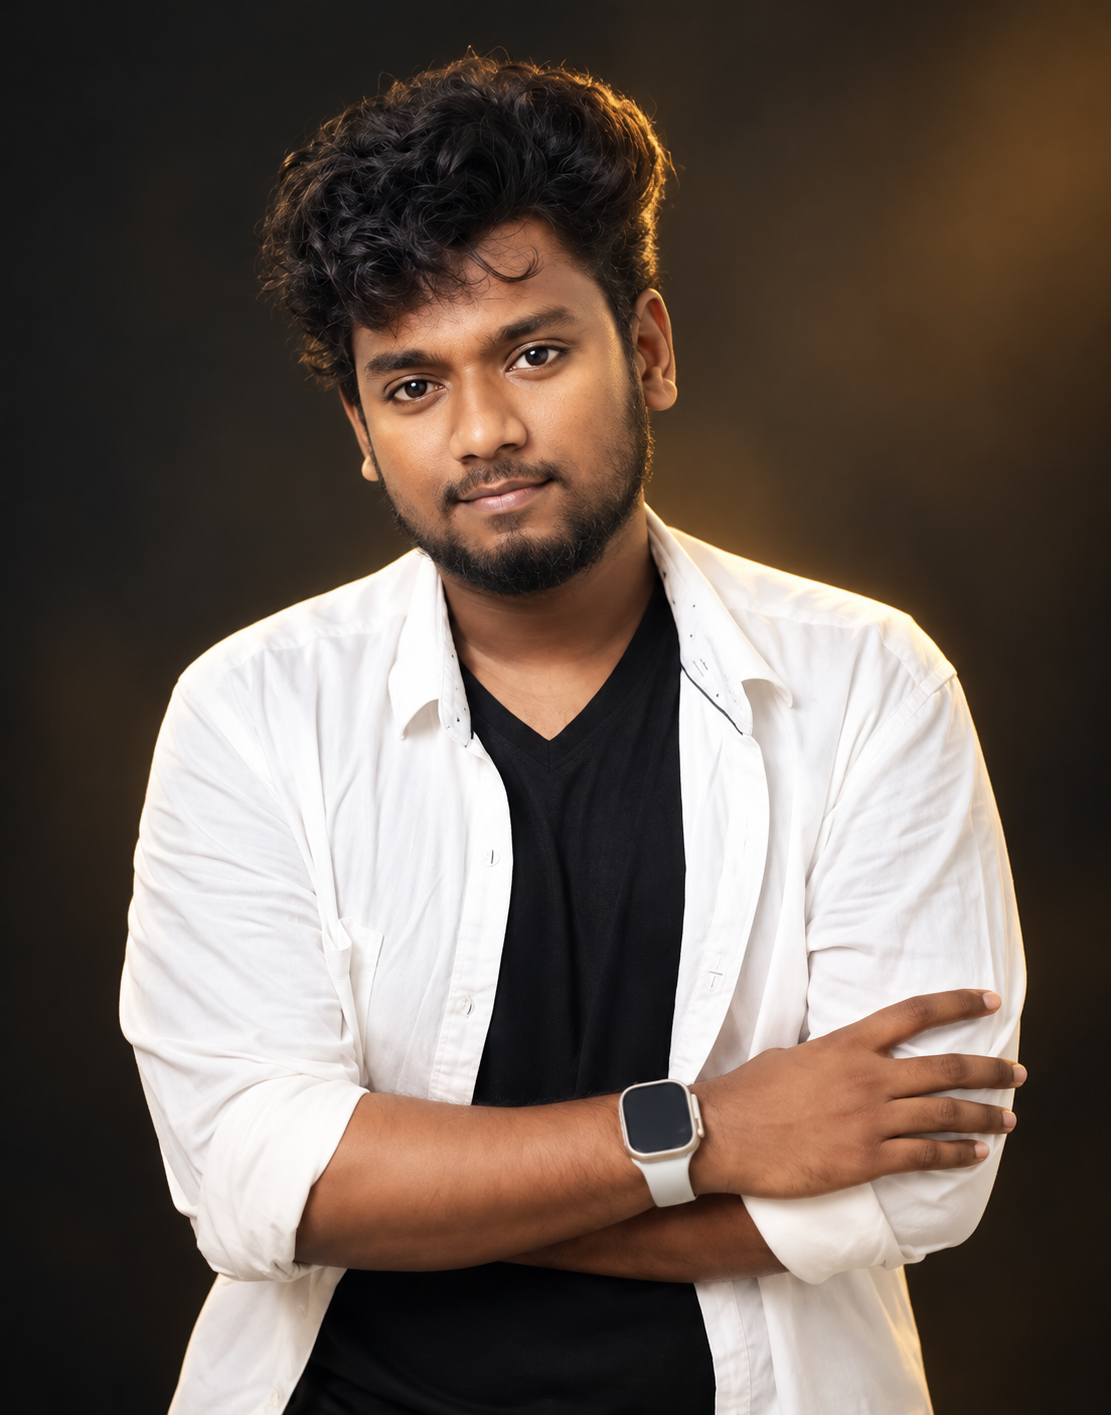
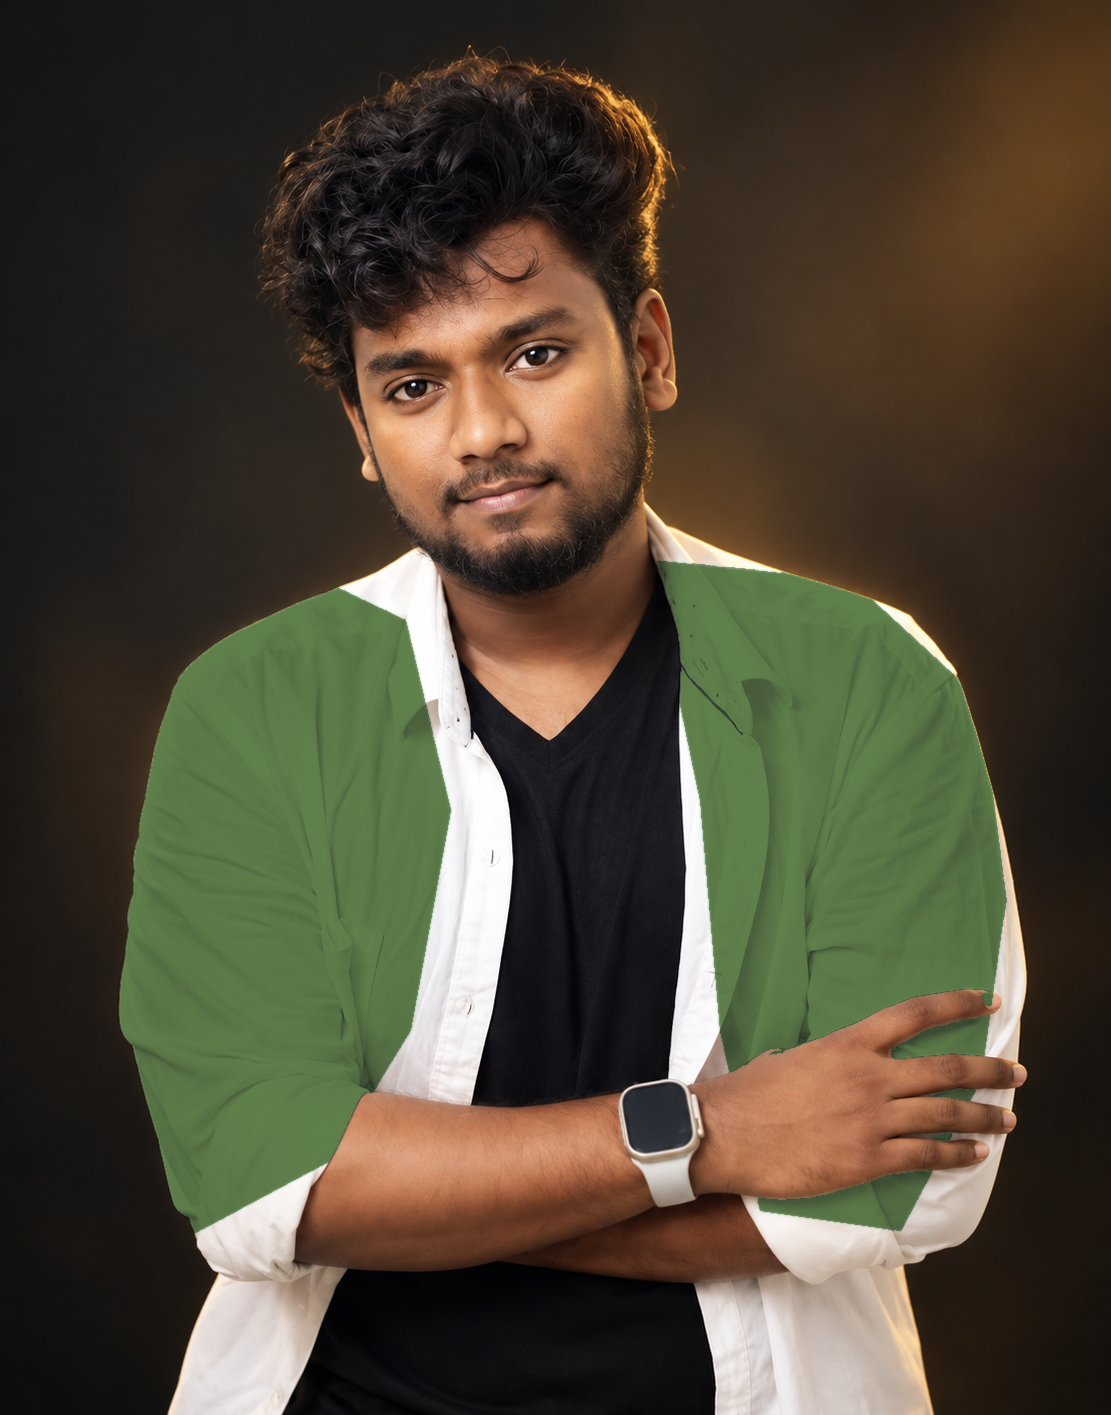
Add files via upload

Changed region(s): [[0.0918, 0.4042, 0.4284, 0.8707], [0.5815, 0.3731, 0.9181, 0.7774], [0.6733, 0.8085, 0.8569, 0.8707]]

diff --git a/index.html b/index.html
@@ -5,8 +5,8 @@
 <meta name="theme-color" content="#090909"><meta name="description" content="U1Trader — Tharmesh's trading journey, payout gallery, trading resources and competition leaderboard.">
 <title>U1Trader | Tharmesh</title>
 <style>
-:root{--bg:#090909;--panel:#11110f;--panel2:#171612;--gold:#d9b56d;--gold2:#f4dba2;--text:#f6f2e9;--muted:#aaa69b;--line:rgba(217,181,109,.22);--green:#69d6a0}*{box-sizing:border-box}html{scroll-behavior:smooth}body{margin:0;background:radial-gradient(ellipse at 50% -20%,#302617 0,transparent 45%),var(--bg);color:var(--text);font:16px/1.6 Inter,ui-sans-serif,system-ui,-apple-system,BlinkMacSystemFont,"Segoe UI",sans-serif}a{color:inherit;text-decoration:none}.wrap{width:min(1120px,calc(100% - 36px));margin:auto}.nav{position:sticky;top:0;z-index:10;background:rgba(9,9,9,.88);backdrop-filter:blur(14px);border-bottom:1px solid var(--line)}.navin{height:76px;display:flex;align-items:center;justify-content:space-between;gap:20px}.logo{font-weight:900;letter-spacing:.11em;font-size:1.2rem}.logo span{color:var(--gold)}.navlinks{display:flex;align-items:center;gap:24px;color:#d3cbb9;font-size:.9rem}.navlinks a:hover{color:var(--gold2)}.btn{display:inline-flex;align-items:center;justify-content:center;gap:9px;padding:12px 18px;border-radius:9px;border:1px solid var(--line);background:linear-gradient(135deg,#f0d99d,#b88b3c);color:#17120a;font-weight:800;cursor:pointer;transition:.2s}.btn:hover{transform:translateY(-2px);filter:brightness(1.06)}.btn.secondary{background:#15130f;color:var(--gold2);border-color:var(--line)}.hero{padding:86px 0 74px;min-height:570px;display:grid;grid-template-columns:1.2fr .8fr;align-items:center;gap:48px}.eyebrow{color:var(--gold);font-size:.76rem;letter-spacing:.22em;text-transform:uppercase;font-weight:800}.hero h1{font-size:clamp(3rem,7vw,5.8rem);line-height:.99;letter-spacing:-.06em;margin:18px 0}.hero h1 span{color:var(--gold)}.hero p{max-width:650px;color:#c4beb1;font-size:1.08rem}.actions{display:flex;flex-wrap:wrap;gap:12px;margin-top:28px}.heroCard{min-height:340px;border:1px solid var(--line);border-radius:22px;background:linear-gradient(145deg,rgba(217,181,109,.12),rgba(255,255,255,.015));padding:28px;display:flex;flex-direction:column;justify-content:space-between;box-shadow:0 25px 90px #0008;position:relative;overflow:hidden}.heroCard:before{content:"";position:absolute;width:300px;height:300px;border:1px solid #d9b56d30;border-radius:50%;right:-90px;top:-80px;box-shadow:0 0 0 25px #d9b56d08,0 0 0 55px #d9b56d06}.goldline{height:2px;background:linear-gradient(90deg,transparent,var(--gold),transparent);margin:22px 0}.statgrid{display:grid;grid-template-columns:repeat(2,1fr);gap:12px}.stat{border:1px solid var(--line);border-radius:12px;padding:16px;background:#09090966}.stat strong{display:block;font-size:1.35rem;color:var(--gold2)}.stat small{color:var(--muted)}section{padding:64px 0;border-top:1px solid #ffffff0d}.sectionhead{display:flex;align-items:end;justify-content:space-between;gap:20px;margin-bottom:26px}.sectionhead h2{margin:5px 0 0;font-size:clamp(1.8rem,4vw,2.7rem);letter-spacing:-.04em}.sectionhead p{margin:0;color:var(--muted);max-width:470px}.aboutgrid{display:grid;grid-template-columns:1.1fr .9fr;gap:22px}.card{background:linear-gradient(145deg,#15140f,#0e0e0d);border:1px solid var(--line);border-radius:16px;padding:26px}.card p{color:#c6c0b4}.quote{font-size:1.15rem;color:var(--gold2)!important}.tagrow{display:flex;gap:8px;flex-wrap:wrap;margin-top:18px}.tag{border:1px solid var(--line);border-radius:99px;padding:6px 11px;font-size:.82rem;color:#e7d7b1}.socials{display:grid;gap:12px}.profile-photo-card{position:relative;overflow:hidden;border:1px solid var(--line);border-radius:18px;padding:8px;background:linear-gradient(145deg,#d9b56d55,#11110f 55%);box-shadow:0 18px 55px #0009}.profile-photo-card img{display:block;width:100%;height:380px;object-fit:cover;object-position:center 28%;border-radius:12px;background:#15120d}.profile-photo-caption{padding:12px 10px 8px}.profile-photo-caption strong{display:block;color:var(--gold2);font-size:1.1rem}.profile-photo-caption small{color:var(--muted)}.social{display:flex;align-items:center;justify-content:space-between;gap:14px;padding:17px;border:1px solid var(--line);border-radius:12px;background:#0b0b0a}.social b{display:block}.social small{color:var(--muted)}.arrow{color:var(--gold);font-size:1.2rem}.discountgrid{display:grid;grid-template-columns:repeat(3,1fr);gap:15px}.discount{border:1px solid var(--line);border-radius:15px;padding:21px;background:linear-gradient(145deg,#17150f,#0d0d0b)}.discount h3{margin:0 0 3px}.discount p{margin:0 0 16px;color:var(--muted);font-size:.9rem}.code{display:flex;justify-content:space-between;align-items:center;gap:8px;border:1px dashed #d9b56d77;background:#080807;border-radius:8px;padding:10px 11px;color:var(--gold2);font-weight:800}.copy{border:0;background:transparent;color:var(--gold2);cursor:pointer;font-size:.8rem;font-weight:800}.category{margin:28px 0 14px;color:var(--gold);font-size:.76rem;letter-spacing:.17em;font-weight:800}.gallery{display:grid;grid-template-columns:repeat(3,1fr);gap:16px}.cert{border:1px solid var(--line);border-radius:14px;overflow:hidden;background:#111;transition:.2s}.cert:hover{transform:translateY(-3px);border-color:#d9b56d88}.cert img{display:block;width:100%;height:265px;object-fit:contain;background:#e6e9ec;padding:8px}.cert.dark img{background:#121314}.certlabel{padding:14px 15px}.certlabel b{display:block}.certlabel small{color:var(--muted)}.certlabel a{color:var(--gold2);font-size:.85rem}.competition{border:1px solid #d9b56d55;border-radius:20px;padding:34px;background:radial-gradient(ellipse at 100% 0,#57411c44,transparent 55%),linear-gradient(130deg,#19150e,#0d0d0c);display:flex;justify-content:space-between;align-items:center;gap:28px}.competition h2{font-size:clamp(1.7rem,4vw,2.6rem);margin:5px 0}.competition p{color:var(--muted);max-width:640px}.footer{padding:30px 0;color:#8f897e;font-size:.85rem;border-top:1px solid var(--line)}.footerin{display:flex;justify-content:space-between;gap:16px;flex-wrap:wrap}.toast{position:fixed;bottom:20px;left:50%;transform:translateX(-50%);background:#e9d29b;color:#161108;padding:10px 16px;border-radius:8px;font-weight:800;display:none;z-index:30}
-@media(max-width:800px){.navin{height:auto;min-height:68px;flex-wrap:wrap;padding:14px 0}.navlinks{gap:14px;overflow:auto;width:100%;padding-bottom:4px}.hero{grid-template-columns:1fr;padding:58px 0;gap:25px}.heroCard{min-height:280px}.aboutgrid{grid-template-columns:1fr}.discountgrid{grid-template-columns:repeat(2,1fr)}.gallery{grid-template-columns:repeat(2,1fr)}.competition{align-items:flex-start;flex-direction:column}}@media(max-width:520px){.wrap{width:min(100% - 24px,1120px)}.hero h1{font-size:3.2rem}.discountgrid,.gallery{grid-template-columns:1fr}.cert img{height:290px}.sectionhead{align-items:flex-start;flex-direction:column}.card{padding:20px}}
+:root{--bg:#090909;--panel:#11110f;--panel2:#171612;--gold:#d9b56d;--gold2:#f4dba2;--text:#f6f2e9;--muted:#aaa69b;--line:rgba(217,181,109,.22);--green:#69d6a0}*{box-sizing:border-box}html{scroll-behavior:smooth}body{margin:0;background:radial-gradient(ellipse at 50% -20%,#302617 0,transparent 45%),var(--bg);color:var(--text);font:16px/1.6 Inter,ui-sans-serif,system-ui,-apple-system,BlinkMacSystemFont,"Segoe UI",sans-serif}a{color:inherit;text-decoration:none}.wrap{width:min(1120px,calc(100% - 36px));margin:auto}.nav{position:sticky;top:0;z-index:10;background:rgba(9,9,9,.88);backdrop-filter:blur(14px);border-bottom:1px solid var(--line)}.navin{height:76px;display:flex;align-items:center;justify-content:space-between;gap:20px}.logo{font-weight:900;letter-spacing:.11em;font-size:1.2rem}.logo span{color:var(--gold)}.navlinks{display:flex;align-items:center;gap:24px;color:#d3cbb9;font-size:.9rem}.navlinks a:hover{color:var(--gold2)}.btn{display:inline-flex;align-items:center;justify-content:center;gap:9px;padding:12px 18px;border-radius:9px;border:1px solid var(--line);background:linear-gradient(135deg,#f0d99d,#b88b3c);color:#17120a;font-weight:800;cursor:pointer;transition:.2s}.btn:hover{transform:translateY(-2px);filter:brightness(1.06)}.btn.secondary{background:#15130f;color:var(--gold2);border-color:var(--line)}.hero{padding:86px 0 74px;min-height:570px;display:grid;grid-template-columns:1.2fr .8fr;align-items:center;gap:48px}.eyebrow{color:var(--gold);font-size:.76rem;letter-spacing:.22em;text-transform:uppercase;font-weight:800}.hero h1{font-size:clamp(3rem,7vw,5.8rem);line-height:.99;letter-spacing:-.06em;margin:18px 0}.hero h1 span{color:var(--gold)}.hero p{max-width:650px;color:#c4beb1;font-size:1.08rem}.actions{display:flex;flex-wrap:wrap;gap:12px;margin-top:28px}.heroCard{min-height:340px;border:1px solid var(--line);border-radius:22px;background:linear-gradient(145deg,rgba(217,181,109,.12),rgba(255,255,255,.015));padding:28px;display:flex;flex-direction:column;justify-content:space-between;box-shadow:0 25px 90px #0008;position:relative;overflow:hidden}.heroCard:before{content:"";position:absolute;width:300px;height:300px;border:1px solid #d9b56d30;border-radius:50%;right:-90px;top:-80px;box-shadow:0 0 0 25px #d9b56d08,0 0 0 55px #d9b56d06}.goldline{height:2px;background:linear-gradient(90deg,transparent,var(--gold),transparent);margin:22px 0}.statgrid{display:grid;grid-template-columns:repeat(2,1fr);gap:12px}.stat{border:1px solid var(--line);border-radius:12px;padding:16px;background:#09090966}.stat strong{display:block;font-size:1.35rem;color:var(--gold2)}.stat small{color:var(--muted)}section{padding:64px 0;border-top:1px solid #ffffff0d}.sectionhead{display:flex;align-items:end;justify-content:space-between;gap:20px;margin-bottom:26px}.sectionhead h2{margin:5px 0 0;font-size:clamp(1.8rem,4vw,2.7rem);letter-spacing:-.04em}.sectionhead p{margin:0;color:var(--muted);max-width:470px}.aboutgrid{display:grid;grid-template-columns:1.1fr .9fr;gap:22px}.card{background:linear-gradient(145deg,#15140f,#0e0e0d);border:1px solid var(--line);border-radius:16px;padding:26px}.card p{color:#c6c0b4}.quote{font-size:1.15rem;color:var(--gold2)!important}.tagrow{display:flex;gap:8px;flex-wrap:wrap;margin-top:18px}.tag{border:1px solid var(--line);border-radius:99px;padding:6px 11px;font-size:.82rem;color:#e7d7b1}.socials{display:grid;gap:12px}.profile-photo-card{position:relative;overflow:hidden;border:1px solid var(--line);border-radius:18px;padding:8px;background:linear-gradient(145deg,#d9b56d55,#11110f 55%);box-shadow:0 18px 55px #0009}.profile-photo-card img{display:block;width:100%;height:500px;object-fit:cover;object-position:center 38%;border-radius:12px;background:#15120d}.profile-photo-caption{padding:12px 10px 8px}.profile-photo-caption strong{display:block;color:var(--gold2);font-size:1.1rem}.profile-photo-caption small{color:var(--muted)}.social{display:flex;align-items:center;justify-content:space-between;gap:14px;padding:17px;border:1px solid var(--line);border-radius:12px;background:#0b0b0a}.social b{display:block}.social small{color:var(--muted)}.arrow{color:var(--gold);font-size:1.2rem}.discountgrid{display:grid;grid-template-columns:repeat(3,1fr);gap:15px}.discount{border:1px solid var(--line);border-radius:15px;padding:21px;background:linear-gradient(145deg,#17150f,#0d0d0b)}.discount h3{margin:0 0 3px}.discount p{margin:0 0 16px;color:var(--muted);font-size:.9rem}.code{display:flex;justify-content:space-between;align-items:center;gap:8px;border:1px dashed #d9b56d77;background:#080807;border-radius:8px;padding:10px 11px;color:var(--gold2);font-weight:800}.copy{border:0;background:transparent;color:var(--gold2);cursor:pointer;font-size:.8rem;font-weight:800}.category{margin:28px 0 14px;color:var(--gold);font-size:.76rem;letter-spacing:.17em;font-weight:800}.gallery{display:grid;grid-template-columns:repeat(3,1fr);gap:16px}.cert{border:1px solid var(--line);border-radius:14px;overflow:hidden;background:#111;transition:.2s}.cert:hover{transform:translateY(-3px);border-color:#d9b56d88}.cert img{display:block;width:100%;height:265px;object-fit:contain;background:#e6e9ec;padding:8px}.cert.dark img{background:#121314}.certlabel{padding:14px 15px}.certlabel b{display:block}.certlabel small{color:var(--muted)}.certlabel a{color:var(--gold2);font-size:.85rem}.competition{border:1px solid #d9b56d55;border-radius:20px;padding:34px;background:radial-gradient(ellipse at 100% 0,#57411c44,transparent 55%),linear-gradient(130deg,#19150e,#0d0d0c);display:flex;justify-content:space-between;align-items:center;gap:28px}.competition h2{font-size:clamp(1.7rem,4vw,2.6rem);margin:5px 0}.competition p{color:var(--muted);max-width:640px}.footer{padding:30px 0;color:#8f897e;font-size:.85rem;border-top:1px solid var(--line)}.footerin{display:flex;justify-content:space-between;gap:16px;flex-wrap:wrap}.toast{position:fixed;bottom:20px;left:50%;transform:translateX(-50%);background:#e9d29b;color:#161108;padding:10px 16px;border-radius:8px;font-weight:800;display:none;z-index:30}
+@media(max-width:800px){.navin{height:auto;min-height:68px;flex-wrap:wrap;padding:14px 0}.navlinks{gap:14px;overflow:auto;width:100%;padding-bottom:4px}.hero{grid-template-columns:1fr;padding:58px 0;gap:25px}.heroCard{min-height:280px}.aboutgrid{grid-template-columns:1fr}.discountgrid{grid-template-columns:repeat(2,1fr)}.gallery{grid-template-columns:repeat(2,1fr)}.competition{align-items:flex-start;flex-direction:column}}@media(max-width:520px){.profile-photo-card img{height:auto;aspect-ratio:1111 / 1415;object-fit:contain;object-position:center;border-radius:12px}.wrap{width:min(100% - 24px,1120px)}.hero h1{font-size:3.2rem}.discountgrid,.gallery{grid-template-columns:1fr}.cert img{height:290px}.sectionhead{align-items:flex-start;flex-direction:column}.card{padding:20px}}
 </style>
 </head>
 <body>
